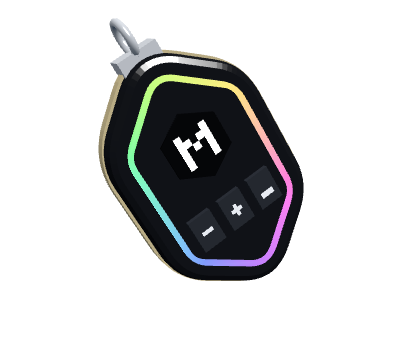
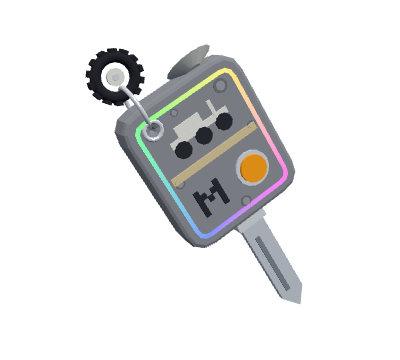
WIP: the Moon Rover's key redone (lunar grey fob, rover profile, GO button, dish in the edge, knobbly wheel charm); fin ring, snowboot track pads, solar glass; ?keys&only=
Claude-Session: https://claude.ai/code/session_01QcjpkNELmj7W3GRKyipQrt

Changed region(s): [[0.21, 0.0306, 0.78, 0.8556]]

diff --git a/src/delivery/render/keyModels.js b/src/delivery/render/keyModels.js
@@ -346,6 +346,9 @@ const fin = (car, { rarity = 'bespoke' } = {}) => {
   band(k, CHROME, P, 0.2, -0.1, 0.12, 0.22, 0, 4);
   rainbow(band(k, rimMaterial(rarity), P, 0.2, -0.19, -0.13, 0.06, FRONT + 0.005, 4), 0, 0.3);
   for (const z of [FRONT, -FRONT]) add(k, new THREE.TorusGeometry(0.15, 0.035, 6, 14), CHROME, HOLE[0], HOLE[1], z);
+  // a split ring through the hole, round the fin's edge (in the plane across the key)
+  const ring = add(k, new THREE.TorusGeometry(0.5, 0.045, 6, 22), CHROME, HOLE[0], HOLE[1] + 0.5, 0);
+  ring.rotation.y = Math.PI / 2;
   // the porthole: a chrome ring, a dark window, the initial lit in the car's colour (both faces have the ring)
   const EY = -0.22;
   for (const s of [1, -1]) add(k, new THREE.TorusGeometry(0.4, 0.06, 6, 20), CHROME, 0, EY, s * FRONT);
@@ -353,7 +356,7 @@ const fin = (car, { rarity = 'bespoke' } = {}) => {
   glyph(k, INK, initialOf(car), 0.4, FRONT + 0.015, FRONT + 0.045, 0, EY);
   // the speed strake, parallel to the leading edge
   const lead = Math.atan2(2.0, 1.55);
-  const strake = box(k, CHROME, 0.62, 0.07, 0.04, 0.15, 0.65, FRONT + 0.01);
+  const strake = box(k, CHROME, 0.7, 0.1, 0.04, 0.12, 0.62, FRONT + 0.01);
   strake.rotation.z = lead;
   // the nozzle (narrow at the fin, flared at the end) and the blade out of it
   const nozzle = new THREE.CylinderGeometry(0.2, 0.34, 0.42, 14, 1, true);
@@ -412,7 +415,7 @@ const solar = (car, { rarity = 'bespoke' } = {}) => {
   const group = new THREE.Group(), k = new THREE.Group();
   const paint = paintOf(car);
   const BODY = metal(paint.getHex(), 70), CELL = metal(0x0e1f4f, 130), CHROME = metal(0xd4d8de, 110), BLADE = metal(0xc3c8cf, 80);
-  const CUT = metal(0x7d848d, 60), GLASS = metal(0x16222e, 150), BADGE = metal(0xf2f4f7, 60), INK = metal(paint.getHex(), 90);
+  const CUT = metal(0x7d848d, 60), GLASS = metal(0x4f7f9e, 150), BADGE = metal(0xf2f4f7, 60), INK = metal(paint.getHex(), 90);
   const P = [[-1.05, -1.0], [1.05, -1.0], [1.05, 0.85], [0.6, 1.35], [-0.6, 1.35], [-1.05, 0.85]];
   const D = 0.16, B = 0.04, FRONT = D / 2 + B; // (the face at z = 0.12)
   const HOLE = [0, 1.02];
@@ -442,49 +445,60 @@ const solar = (car, { rarity = 'bespoke' } = {}) => {
   return idle(group, merged(k));
 };
 
-// ---- (g) the LUNAR key (the Moon Rover): a chamfered square fob in lunar grey with a gold-foil face (the car's colour),
-// the initial and a T-handle between two buttons on it, the rover's dish on a mast at one top corner and a little
-// wheel hung on a split ring at the other, a stubby blade below
+// ---- (g) the LUNAR key (the Moon Rover): a chunky fob in matte lunar grey with a few shallow craters, a six-wheeled
+// rover's profile on its face, a strip of gold foil (the car's colour), the initial and one amber GO button; a flat
+// high-gain dish set in its top edge (no mast: the owner, 13-Oct, the first one "looks like a pirate ship key"), a ring
+// hole with a split ring and a knobbly wire-hubbed wheel hung on it (the Apollo rover's), a stubby blade below
 const lunar = (car, { rarity = 'bespoke' } = {}) => {
   const group = new THREE.Group(), k = new THREE.Group();
   const paint = paintOf(car);
-  const BODY = metal(0x8d929a, 60), FOIL = metal(paint.getHex(), 120), CHROME = metal(0xd4d8de, 110), BLADE = metal(0xc3c8cf, 80);
-  const CUT = metal(0x7d848d, 60), DARK = metal(0x2a2d33, 50), DISH = metal(0xeceae2, 60), INK = metal(inkOn(paint), 90);
-  const P = [[-0.7, -1.1], [0.7, -1.1], [0.95, -0.85], [0.95, 0.85], [0.7, 1.1], [-0.7, 1.1], [-0.95, 0.85], [-0.95, -0.85]];
-  const D = 0.36, B = 0.06, FRONT = D / 2 + B; // (the face at z = 0.24)
-  slab(k, BODY, outline(P, 0.08), D, B, 0, 2);
-  rainbow(band(k, rimMaterial(rarity), P, 0.08, -0.16, -0.1, 0.05, FRONT + 0.005, 2), 0, 0);
-  slab(k, FOIL, outline(P, 0.06, -0.22), 0.06, 0, FRONT + 0.01, 2);
-  glyph(k, INK, initialOf(car), 0.5, FRONT + 0.035, FRONT + 0.08, 0, 0.32);
-  // the T-handle (the rover is steered by one) between the two buttons
-  box(k, CHROME, 0.08, 0.36, 0.06, 0, -0.58, FRONT + 0.05);
-  box(k, CHROME, 0.34, 0.08, 0.06, 0, -0.38, FRONT + 0.05);
-  for (const x of [-0.5, 0.5]) disc(k, DARK, 0.15, FRONT, FRONT + 0.08, x, -0.48, 12);
-  // the dish on its mast
-  const mx = 0.45;
-  add(k, new THREE.CylinderGeometry(0.045, 0.045, 0.62, 6), CHROME, mx, 1.38, 0);
-  add(k, new THREE.CylinderGeometry(0.44, 0.05, 0.16, 14), DISH, mx, 1.74, 0);
-  // the eye, the split ring through it and the wheel hung on the ring
-  const ex = -0.5;
-  add(k, new THREE.TorusGeometry(0.12, 0.04, 6, 12), CHROME, ex, 1.2, 0);
-  const split = add(k, new THREE.TorusGeometry(0.26, 0.035, 6, 16), CHROME, ex, 1.46, 0);
+  const BODY = lambert(0x8e9197), CRATER = lambert(0x74777d), FLOOR = lambert(0x9da0a6), FOIL = metal(paint.getHex(), 120);
+  const CHROME = metal(0xd4d8de, 110), BLADE = metal(0xc3c8cf, 80), CUT = metal(0x7d848d, 60), RUBBER = lambert(0x26282d);
+  const ROVER = metal(0xe6e6df, 50), GO = metal(0xffa41c, 90), DISH = metal(0xeceae2, 60), INK = lambert(0x2a2d33);
+  const P = [[-0.95, -1.1], [0.95, -1.1], [0.95, 1.1], [-0.95, 1.1]];
+  const D = 0.36, B = 0.08, FRONT = D / 2 + B; // (the face at z = 0.26)
+  const HOLE = [-0.58, 0.82];
+  const shape = outline(P, 0.3);
+  shape.holes.push(circle(HOLE[0], HOLE[1], 0.1));
+  slab(k, BODY, shape, D, B, 0, 3);
+  rainbow(band(k, rimMaterial(rarity), P, 0.3, -0.16, -0.1, 0.05, FRONT + 0.005, 3), 0, 0);
+  for (const z of [FRONT, -FRONT]) add(k, new THREE.TorusGeometry(0.13, 0.035, 6, 12), CHROME, HOLE[0], HOLE[1], z);
+  // craters: a dark ring of a dent, its floor paler, barely proud of the face
+  for (const [x, y, r] of [[0.58, 0.8, 0.11], [-0.66, -0.05, 0.08], [0.7, 0.05, 0.07], [0.05, -0.88, 0.09], [-0.2, 0.86, 0.06]]) {
+    disc(k, CRATER, r, FRONT - 0.01, FRONT + 0.01, x, y, 10);
+    disc(k, FLOOR, r * 0.65, FRONT - 0.01, FRONT + 0.016, x, y, 10);
+  }
+  // the rover's profile: a chassis, a deck, three wheels
+  box(k, ROVER, 0.98, 0.1, 0.04, 0, 0.47, FRONT + 0.01);
+  box(k, ROVER, 0.42, 0.16, 0.04, -0.12, 0.6, FRONT + 0.01);
+  box(k, ROVER, 0.06, 0.22, 0.04, 0.3, 0.62, FRONT + 0.01);
+  for (const x of [-0.36, 0, 0.36]) disc(k, INK, 0.13, FRONT - 0.01, FRONT + 0.04, x, 0.34, 10);
+  // the gold-foil strip, the initial and the GO button
+  box(k, FOIL, 1.5, 0.12, 0.04, 0, 0.02, FRONT + 0.005);
+  glyph(k, INK, initialOf(car), 0.42, FRONT - 0.01, FRONT + 0.04, -0.38, -0.5);
+  disc(k, CHROME, 0.27, FRONT - 0.02, FRONT + 0.04, 0.38, -0.5, 16);
+  disc(k, GO, 0.21, FRONT, FRONT + 0.09, 0.38, -0.5, 16);
+  // the dish: a shallow cone set in the top edge, looking up and out
+  const dish = add(k, new THREE.CylinderGeometry(0.38, 0.12, 0.12, 14), DISH, 0.42, 1.22, 0.04);
+  dish.rotation.x = -0.5;
+  // the split ring through the hole and round the top edge, and the wheel hung on it: a knobbly tyre, a wire hub
+  const R = 0.34;
+  const split = add(k, new THREE.TorusGeometry(R, 0.035, 6, 18), CHROME, HOLE[0], HOLE[1] + R, 0);
   split.rotation.y = Math.PI / 2;
-  add(k, new THREE.TorusGeometry(0.3, 0.075, 6, 16), DARK, ex, 1.85, 0);
-  for (let i = 0; i < 8; i++) { // (the wire wheel's chevrons, round its tread)
-    const a = (i + 0.5) / 8 * Math.PI * 2;
-    if (Math.abs(a - Math.PI * 1.5) < 0.5) continue; // (not where the ring passes)
-    const c = box(k, FOIL, 0.07, 0.05, 0.17, ex + Math.cos(a) * 0.37, 1.85 + Math.sin(a) * 0.37, 0);
-    c.rotation.z = a;
+  const WY = HOLE[1] + 2 * R + 0.17; // (the ring's top passes inside the wheel, 0.17 below its middle)
+  add(k, new THREE.TorusGeometry(0.28, 0.08, 6, 18), RUBBER, HOLE[0], WY, 0);
+  for (let i = 0; i < 14; i++) { // (low knobs round the tread)
+    const a = (i + 0.5) / 14 * Math.PI * 2;
+    if (Math.abs(a - Math.PI * 1.5) < 0.3) continue; // (not where the ring passes)
+    box(k, RUBBER, 0.05, 0.09, 0.19, HOLE[0] + Math.cos(a) * 0.36, WY + Math.sin(a) * 0.36, 0).rotation.z = a;
   }
-  disc(k, FOIL, 0.08, -0.05, 0.05, ex, 1.85, 8);
-  for (const a of [0, Math.PI]) { // (two spokes, clear of the ring)
-    const s = box(k, CHROME, 0.18, 0.04, 0.04, ex + Math.cos(a) * 0.15, 1.85, 0);
-    s.rotation.z = a;
-  }
+  // the wire-mesh hub: a pale disc on the tyre's middle (clear of the ring), a chrome cap
+  disc(k, ROVER, 0.125, -0.03, 0.03, HOLE[0], WY, 12);
+  disc(k, CHROME, 0.05, -0.05, 0.05, HOLE[0], WY, 8);
   // the back: a raised panel; the blade
-  box(k, DARK, 1.1, 1.1, 0.04, 0, 0, -FRONT - 0.01);
-  box(k, CHROME, 0.5, 0.22, 0.26, 0, -1.2, 0);
-  plainBlade(k, BLADE, CUT, -1.25, -3.05, 0.4);
+  box(k, RUBBER, 1.2, 1.2, 0.04, 0, -0.1, -FRONT - 0.01);
+  box(k, CHROME, 0.5, 0.22, 0.28, 0, -1.22, 0);
+  plainBlade(k, BLADE, CUT, -1.28, -3.05, 0.4);
   return idle(group, merged(k));
 };
 
@@ -501,8 +515,8 @@ const snowboot = (car, { rarity = 'bespoke' } = {}) => {
   band(k, BOOT, P, 0.32, -0.14, 0.2, 0.74, 0, 3);
   rainbow(band(k, rimMaterial(rarity), P, 0.32, -0.25, -0.19, 0.05, FRONT + 0.005, 3), 0, 0);
   // the track's cleats down each side, and across the bottom
-  for (const s of [1, -1]) for (let i = 0; i < 7; i++) box(k, CLEAT, 0.1, 0.13, 0.82, s * 1.13, -0.96 + i * 0.32, 0);
-  for (const x of [-0.45, 0, 0.45]) box(k, CLEAT, 0.16, 0.1, 0.82, x, -1.43, 0);
+  // (pads down each side like the cab's two tracks, a gap between each)
+  for (const s of [1, -1]) for (let i = 0; i < 7; i++) box(k, CLEAT, 0.12, 0.25, 0.8, s * 1.12, -0.96 + i * 0.32, 0);
   // the window: the initial and a snowflake
   box(k, GLASS, 1.12, 0.72, 0.08, 0, 0.42, FRONT);
   glyph(k, ICE, initialOf(car), 0.42, FRONT + 0.035, FRONT + 0.06, -0.24, 0.42);

diff --git a/src/delivery/render/keycard.js b/src/delivery/render/keycard.js
@@ -164,7 +164,8 @@ if (typeof window !== 'undefined' && typeof document !== 'undefined' && document
     import('../cars.js').then((Cars) => {
       const one = params.get('keys') ? Cars.carById?.(params.get('keys')) : null;
       const keyCars = [...(Cars.EVENT_CARS || []), ...(Cars.BESPOKE_CARS || [])].filter(c => c && (c.bespoke || c.keyModel));
-      const tiles = one ? KEY_MODELS.map(model => [one, model]) : keyCars.map(car => [car, keyModelInUse(car)]);
+      const only = (params.get('only') || '').split(',').filter(Boolean); // (&only=<model>,...: those keys only)
+      const tiles = (one ? KEY_MODELS.map(model => [one, model]) : keyCars.map(car => [car, keyModelInUse(car)])).filter(([, m]) => !only.length || only.includes(m));
       if (!tiles.length) return;
       const card = params.has('card');
       const sheet = document.createElement('div');
